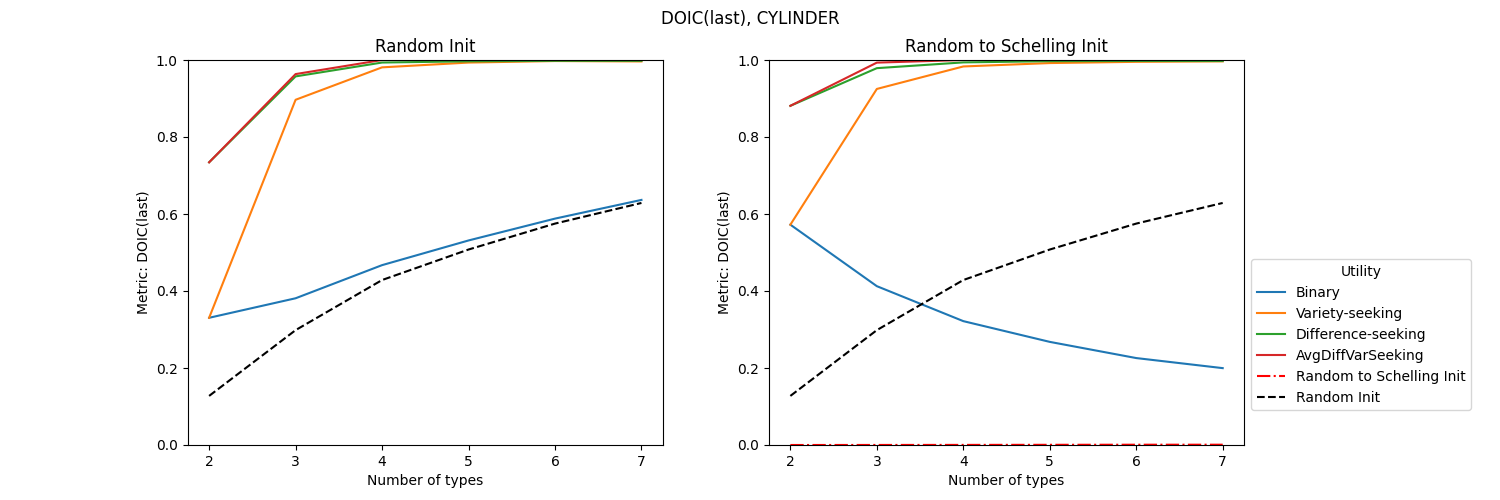
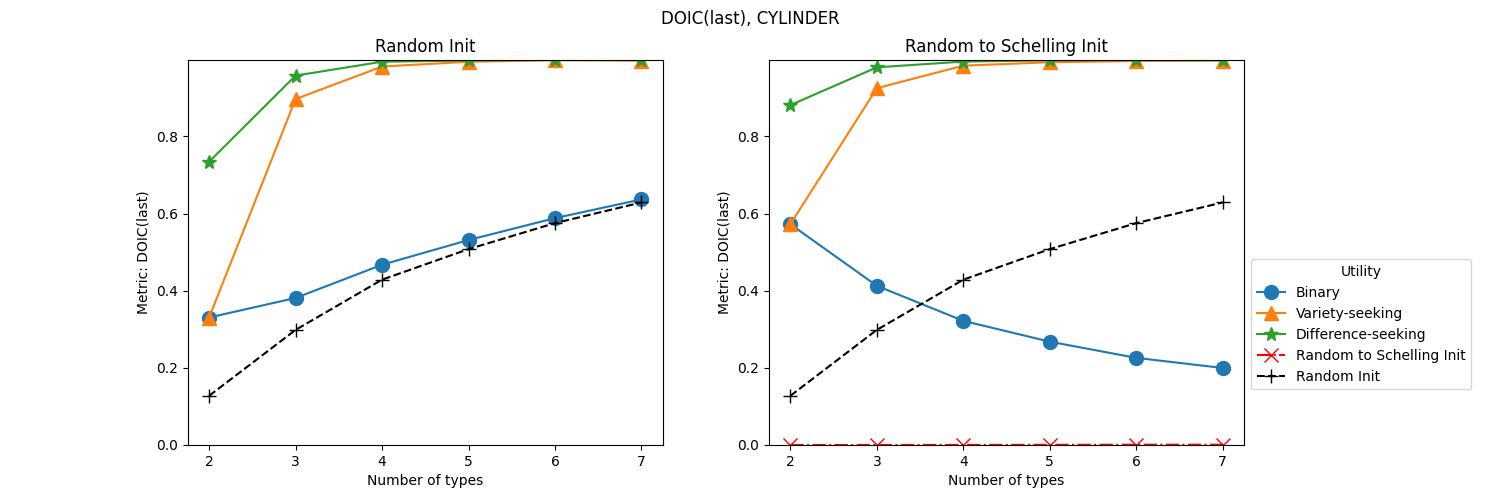
added new plots

diff --git a/DiversitySimulator/results_900_50run/analysis/plot_graphs.py b/DiversitySimulator/results_900_50run/analysis/plot_graphs.py
@@ -4,7 +4,6 @@ import numpy as np
 import matplotlib.pyplot as plt
 plt.rcParams["figure.figsize"] = (15,5)
 
-
 legend_label_map = {
     'social_welfare_0': 'SW(Binary)',
     'social_welfare_1': 'SW(TypeCount)',
@@ -16,6 +15,10 @@ legend_label_map = {
     'type_degree_of_intergration_3': 'DOIT(4)',
     'type_degree_of_intergration_-1': 'DOIT(last)',
     'diff_degree_of_intergration_-1': 'DOIC(last)',
+    'diff_degree_of_intergration_0': 'DOIC(1)',
+    'diff_degree_of_intergration_1': 'DOIC(2)',
+    'diff_degree_of_intergration_2': 'DOIC(3)',
+    'diff_degree_of_intergration_3': 'DOIC(4)',
     'percentage_of_segregated_verticies': '% of seg. vertices',
     'number_of_colorful_edges': 'CE',
     'l2': 'EV'
@@ -23,10 +26,10 @@ legend_label_map = {
 
 ROOT = '..'
 NUM_RUN = 30
-TYPES = [2,3,4,5,6,7]#,8,9]
+TYPES = [5,6,7]#,8,9]
 WORLDS = [
-        ('900', 'CIRCLE_WORLD'), 
-          ('2x450', 'CYLINDER_WORLD'),
+        # ('900', 'CIRCLE_WORLD'), 
+        #   ('2x450', 'CYLINDER_WORLD'),
           ('30x30','GRID_4DEG_WORLD'), 
           # ('20x20', 'GRID_8DEG_WORLD')
           ]
@@ -44,14 +47,28 @@ UTILITIY_LABELS = {
     # 'L2Utility': 'Evenness-seeking',
     # 'ClosedL2Utility': 'Closed-evenness-seeking'
 }
+
+UTILITIY_MARKERS = {
+    'BinaryDiversityUtility': 'o', 
+    'TypeCountingDiversityUtility': '^', 
+    'DifferenceCountDiversityUtility': '*', 
+    'AvgDiffTypeCountingDiversityUtility': 's',
+    # 'L2Utility': 'Evenness-seeking',
+    # 'ClosedL2Utility': 'Closed-evenness-seeking'
+}
+
 SWAP_CONDS = ['individual_greater']
 
 if True: # plot avg
-    focused_metrics = ['social_welfare_1']
-    # focused_metrics = ['type_degree_of_intergration_-1', 'diff_degree_of_intergration_-1']
-    # focused_metrics = ['type_degree_of_intergration_3']
+    # focused_metrics = ['social_welfare_0', 'social_welfare_2','social_welfare_1',
+    #                    'type_degree_of_intergration_-1', 'diff_degree_of_intergration_-1',
+    #                    'number_of_colorful_edges', 'l2']
+    focused_metrics = ['type_degree_of_intergration_3']
+    # focused_metrics = ['diff_degree_of_intergration_0', 'diff_degree_of_intergration_1', 
+    #                    'diff_degree_of_intergration_2', 'diff_degree_of_intergration_3']
     UTILITIES = ['BinaryDiversityUtility', 'TypeCountingDiversityUtility', 
-                 'DifferenceCountDiversityUtility', 'AvgDiffTypeCountingDiversityUtility',
+                 'DifferenceCountDiversityUtility', 
+                 # 'AvgDiffTypeCountingDiversityUtility',
                  # 'L2Utility', 'ClosedL2Utility'
                  ]
 
@@ -87,9 +104,9 @@ if True: # plot avg
                 
             short_utility = UTILITIY_LABELS[utility]
             line_data = read_file(metric, world, world_size, initialization, utility)
-            yield short_utility, line_data
+            yield short_utility, UTILITIY_MARKERS[utility], line_data
         line_data = read_file(metric, world, world_size, initialization, utility, state='init')
-        yield 'init', line_data
+        yield 'init', None, line_data
 
     for metric, world, world_size in iter_graphs(): 
         short_world = world.replace('_WORLD', '')
@@ -98,19 +115,19 @@ if True: # plot avg
         y_max=-1
         for i, initialization_pair in enumerate(INITIALIZATIONS):
             initialization, mod_initialization = initialization_pair
-            for utility, line_data in iter_line(metric, world, world_size, initialization):
+            for utility, utility_marker, line_data in iter_line(metric, world, world_size, initialization):
                 y = [line_data[x] for x in TYPES]
                 y_min = min(np.min(y), y_min)
                 y_max = max(np.max(y), y_max)
                 if utility == 'init':
                     utility = mod_initialization
                     if i == 1:
-                        ax[1].plot(TYPES, y, '--', color='black', label=utility)
-                        ax[0].plot(TYPES, y, '--', color='black', label=utility)
+                        ax[1].plot(TYPES, y, '--', color='black', label=utility, marker='+', markersize=10)
+                        ax[0].plot(TYPES, y, '--', color='black', label=utility, marker='+', markersize=10)
                     else:
-                        ax[1-i].plot(TYPES, y, '-.', color='red', label=utility)
+                        ax[1-i].plot(TYPES, y, '-.', color='red', label=utility, marker='x', markersize=10)
                 else:
-                    ax[1-i].plot(TYPES, y, label=utility)
+                    ax[1-i].plot(TYPES, y, label=utility, marker=utility_marker, markersize=10)
             ax[1-i].set_xlabel('Number of types')
             ax[1-i].set_ylabel('Metric: %s' % legend_label_map[metric])
             ax[1-i].set_title(mod_initialization)
@@ -208,59 +225,59 @@ if False: # plot PoA for each graph
         plt.close()
 
 
+# if False: #social welfare
+#     UTILITIES = ['BinaryDiversityUtility', 'TypeCountingDiversityUtility', 
+#                  'DifferenceCountDiversityUtility']
+#     UTILITY_SW_MAP = {
+#         'BinaryDiversityUtility': 0, 
+#         'TypeCountingDiversityUtility': 1, 
+#         'DifferenceCountDiversityUtility': 2
+#     }
 
-    # UTILITIES = ['BinaryDiversityUtility', 'TypeCountingDiversityUtility', 
-    #              'DifferenceCountDiversityUtility']
-    # UTILITY_SW_MAP = {
-    #     'BinaryDiversityUtility': 0, 
-    #     'TypeCountingDiversityUtility': 1, 
-    #     'DifferenceCountDiversityUtility': 2
-    # }
+#     def iter_graphs():
+#         for utility in UTILITIES:
+#             for initialization, mod_initialization in INITIALIZATIONS:
+#                 yield utility, initialization, mod_initialization
 
-    # def iter_graphs():
-    #     for utility in UTILITIES:
-    #         for initialization, mod_initialization in INITIALIZATIONS:
-    #             yield utility, initialization, mod_initialization
+#     def read_file(world, world_size, initialization, utility):
+#         line_data = {}
+#         for num_type in TYPES:
+#             swap_cond = SWAP_CONDS[0]
+#             with open('%s/%d_types/%s_%s_%s_%s_(%s)_results_.json' % (ROOT, 
+#                                                                      num_type,
+#                                                                      world,
+#                                                                      initialization, 
+#                                                                      swap_cond, 
+#                                                                      utility,
+#                                                                      world_size), 'r') as jsonfile:
+#                 data = json.load(jsonfile)
 
-    # def read_file(world, world_size, initialization, utility):
-    #     line_data = {}
-    #     for num_type in TYPES:
-    #         swap_cond = SWAP_CONDS[0]
-    #         with open('%s/%d_types/%s_%s_%s_%s_(%s)_results_.json' % (ROOT, 
-    #                                                                  num_type,
-    #                                                                  world,
-    #                                                                  initialization, 
-    #                                                                  swap_cond, 
-    #                                                                  utility,
-    #                                                                  world_size), 'r') as jsonfile:
-    #             data = json.load(jsonfile)
+#             ce = np.array([d['final']['number_of_colorful_edges'] for d in data.values()])
+#             poa = np.array([d['final']['social_welfare'][UTILITY_SW_MAP[utility]] for d in data.values()])
+#             line_data[num_type] = {'PoA(CE)': np.mean(ce, axis=0),
+#                                    'PoA(SW)': np.mean(poa, axis=0)}
 
-    #         ce = np.array([d['final']['number_of_colorful_edges'] for d in data.values()])
-    #         poa = np.array([d['final']['social_welfare'][UTILITY_SW_MAP[utility]] for d in data.values()])
-    #         line_data[num_type] = {'PoA(CE)': np.mean(ce, axis=0),
-    #                                'PoA(SW)': np.mean(poa, axis=0)}
+#         return line_data
 
-    #     return line_data
+#     def iter_line(utility, initialization):
+#         for world_size, world in WORLDS:
+#             short_utility = UTILITIY_LABELS[utility]
+#             line_data = read_file(world, world_size, initialization, utility)
+#             yield world, short_utility, line_data
 
-    # def iter_line(utility, initialization):
-    #     for world_size, world in WORLDS:
-    #         short_utility = UTILITIY_LABELS[utility]
-    #         line_data = read_file(world, world_size, initialization, utility)
-    #         yield world, short_utility, line_data
-
-    # for utility, initialization, mod_initialization in iter_graphs():
-    #     fig, ax = plt.subplots(1,2)
-    #     y_max = 1
-    #     for world, utility, line_data in iter_line(utility, initialization):
-    #         for i, sub_title in enumerate(['PoA(CE)', 'PoA(SW)']):
-    #             y = [1.0/line_data[x][sub_title] for x in TYPES]
-    #             world = world.replace('_WORLD', '')
-    #             ax[i].plot(TYPES, y, label=world)
-    #             y_max = max(np.max(y), y_max)
-    #     for i, sub_title in enumerate(['PoA(CE)', 'PoA(SW)']):
-    #         ax[i].set_xlabel('Number of types')
-    #         ax[i].set_ylabel(sub_title)
-    #         ax[i].legend(title='Graph')
-    #     plt.suptitle('%s, %s' % (utility, mod_initialization))
-    #     plt.savefig('poa_plots/PoA_%s_%s.png' % (utility, initialization))
-    #     plt.close()
+#     for utility, initialization, mod_initialization in iter_graphs():
+#         fig, ax = plt.subplots(1,2)
+#         y_max = 1
+#         for world, utility, line_data in iter_line(utility, initialization):
+#             for i, sub_title in enumerate(['PoA(CE)', 'PoA(SW)']):
+#                 y = [1.0/line_data[x][sub_title] for x in TYPES]
+#                 world = world.replace('_WORLD', '')
+#                 ax[i].plot(TYPES, y, label=world)
+#                 y_max = max(np.max(y), y_max)
+#         for i, sub_title in enumerate(['PoA(CE)', 'PoA(SW)']):
+#             ax[i].set_xlabel('Number of types')
+#             ax[i].set_ylabel(sub_title)
+#             ax[i].legend(title='Graph')
+#         plt.suptitle('%s, %s' % (utility, mod_initialization))
+#         plt.savefig('poa_plots/PoA_%s_%s.png' % (utility, initialization))
+#         plt.close()
